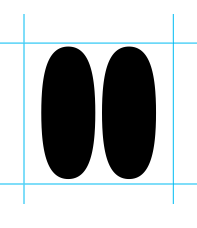
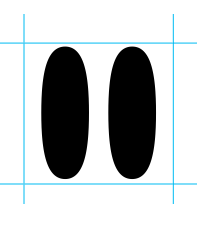
Play and pause (#2276): the widened pause ships, the owner's pick; two test fixes
The owner picked the widened pause (gap 7/64) from the comparisons: as drawn,
its 2.4-unit gap read as one blob at 13-16 pt. Regenerated with PAUSE=wide.
A CATransition is always stored under kCATransition, so the cross-fade is
read back by that key; play and pause may differ by one device pixel of
rounding in their bitmaps.

diff --git a/Packages/Core/DesignSystem/Tests/DesignSystemTests/AppSymbolTests.swift b/Packages/Core/DesignSystem/Tests/DesignSystemTests/AppSymbolTests.swift
@@ -80,7 +80,10 @@ struct AppSymbolTests {
             let configuration = AppSymbol.fixed(size, weight: .semibold)
             let play = try #require(AppSymbol.play.image(configuration))
             let pause = try #require(AppSymbol.pause.image(configuration))
-            #expect(abs(play.size.width - pause.size.width) < 0.01, "at \(size) pt: \(play.size) vs \(pause.size)")
+            // Within one device pixel: the bitmaps round each glyph's box to
+            // the pixel grid on its own (12.67 vs 12.33 pt at 13 pt, 3×) —
+            // a sixth of a point at the centre, not a jump.
+            #expect(abs(play.size.width - pause.size.width) <= 0.34, "at \(size) pt: \(play.size) vs \(pause.size)")
             #expect(abs(play.size.height - pause.size.height) <= 1, "at \(size) pt: \(play.size) vs \(pause.size)")
             #expect(abs(play.alignmentRectInsets.left - pause.alignmentRectInsets.left) < 0.01)
             #expect(abs(play.alignmentRectInsets.right - pause.alignmentRectInsets.right) < 0.01)

diff --git a/Packages/Core/DesignSystem/Sources/DesignSystem/Components/PlayPauseGlyph.swift b/Packages/Core/DesignSystem/Sources/DesignSystem/Components/PlayPauseGlyph.swift
@@ -93,7 +93,9 @@ public enum PlayPauseGlyph {
     /// in place, nothing scales or moves.
     public static let crossFadeDuration: TimeInterval = 0.2
     /// The cross-fade's key on the swapped view's layer.
-    public static let crossFadeKey = "playPause.crossFade"
+    /// ⚠ A `CATransition` is always stored under `kCATransition`, whatever
+    /// key it is added with — so that is the key to read it back by.
+    public static let crossFadeKey = kCATransition
 
     /// The view's content, just changed, dissolves in from what it showed.
     private static func crossFade(_ view: UIView) {

diff --git a/dev/symbols/play-pause/README.md b/dev/symbols/play-pause/README.md
@@ -5,7 +5,7 @@ Every play and pause in the app is drawn from the owner's two drawings (`source/
 | Symbol | `AppSymbol` | VoiceOver | Drawing |
 |---|---|---|---|
 | `core.play.fill` | `.play` | "Play" | the owner's rounded triangle, its full back |
-| `core.pause.fill` | `.pause` | "Pause" | the owner's two tall ovals, **as drawn** |
+| `core.pause.fill` | `.pause` | "Pause" | the owner's two tall ovals, **widened** (the owner's pick, 2026-11-11) |
 | `core.play.circle.fill` | `.playCircle` | "Play" | `play.circle.fill`'s disc, the owner's play knocked out of it |
 | `core.pause.fill.wide` | none (previews only) | | the widened pause the owner may pick (below) |
 
@@ -27,7 +27,7 @@ Every play and pause in the app is drawn from the owner's two drawings (`source/
 ## ⚠ The pause's gap: the owner picks
 On the grid, the drawn ovals stand 2.42 units apart, about 6 % of the glyph's width (SF's `pause.fill` leaves about a quarter). At 13 pt that gap is about 0.6 pt, one or two pixels, and it reads as one blob.
 
-- **Shipped: the pause as drawn** (`core.pause.fill`).
+- **Shipped: the widened pause** (`core.pause.fill`, generated with `PAUSE=wide`): the owner picked it on 2026-11-11 from the comparisons below — as drawn, its 2.4-unit gap read as one blob at 13–16 pt.
 - **Widened** (`core.pause.fill.wide`, `source/Widened.xcassets`, previews only): each oval is narrowed about its **outer** edge (×0.883, 19.58 → 17.29 units). The glyph keeps its width, and the gap opens to **7 units**.
 
 Both are in every comparison below, in the last two columns. To ship the widened one, regenerate with `PAUSE=wide` (see below). The name stays `core.pause.fill`, so no code changes.
